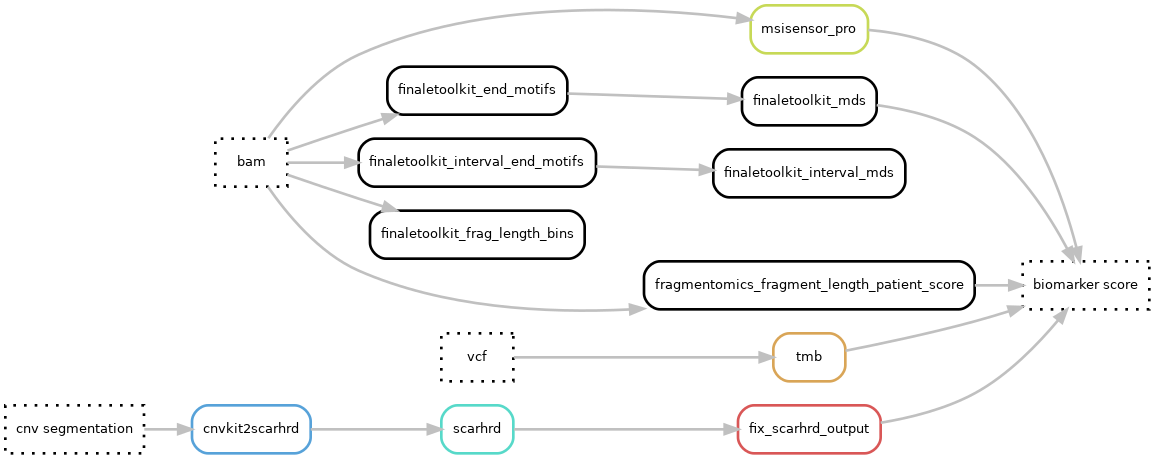
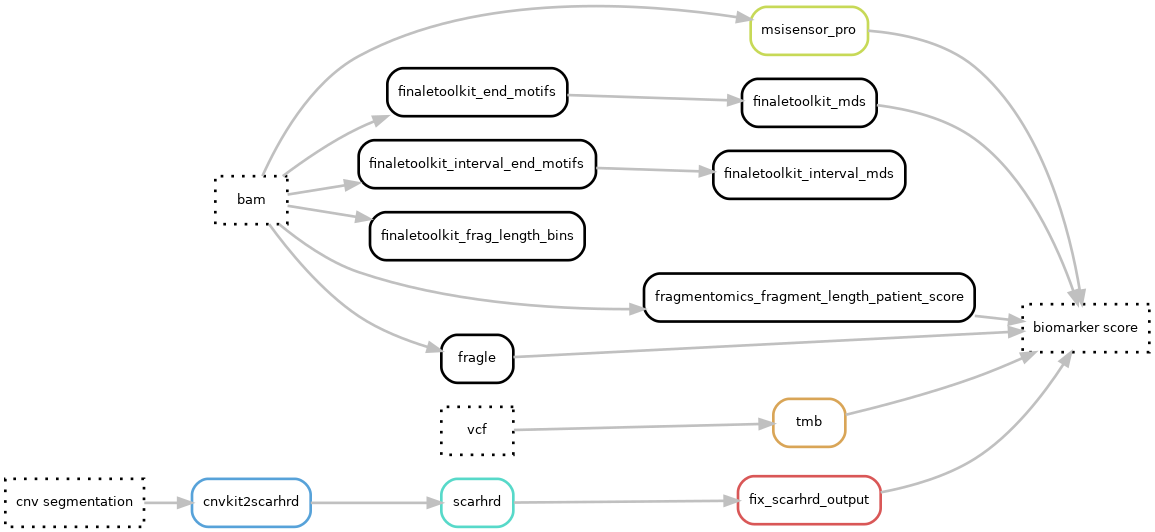
feat: added fragle for ctDNA fraction estimation

diff --git a/docs/softwares.md b/docs/softwares.md
@@ -135,6 +135,29 @@ Calculate histogram with fragment lengths from bam file from a plasma sample
 
 ---
 
+## [fragle](https://github.com/CancerDataScience/FRAGLE)
+Estimates ctDNA fraction from cfDNA whole-genome or targeted sequencing data using fragment length patterns in off-target reads.
+
+### :snake: Rule
+
+#SNAKEMAKE_RULE_SOURCE__fragle__fragle#
+
+#### :left_right_arrow: input / output files
+
+#SNAKEMAKE_RULE_TABLE__fragle__fragle#
+
+### :wrench: Configuration
+
+#### Software settings (`config.yaml`)
+
+#CONFIGSCHEMA__fragle#
+
+#### Resources settings (`resources.yaml`)
+
+#RESOURCESSCHEMA__fragle#
+
+---
+
 ## [fix_scarhrd_output](https://github.com/hydra-genetics/biomarker/blob/develop/workflow/scripts/fix_scarhrd_output.py)
 Script that modifies the scarhrd output for improved readability of the resulting score.
 